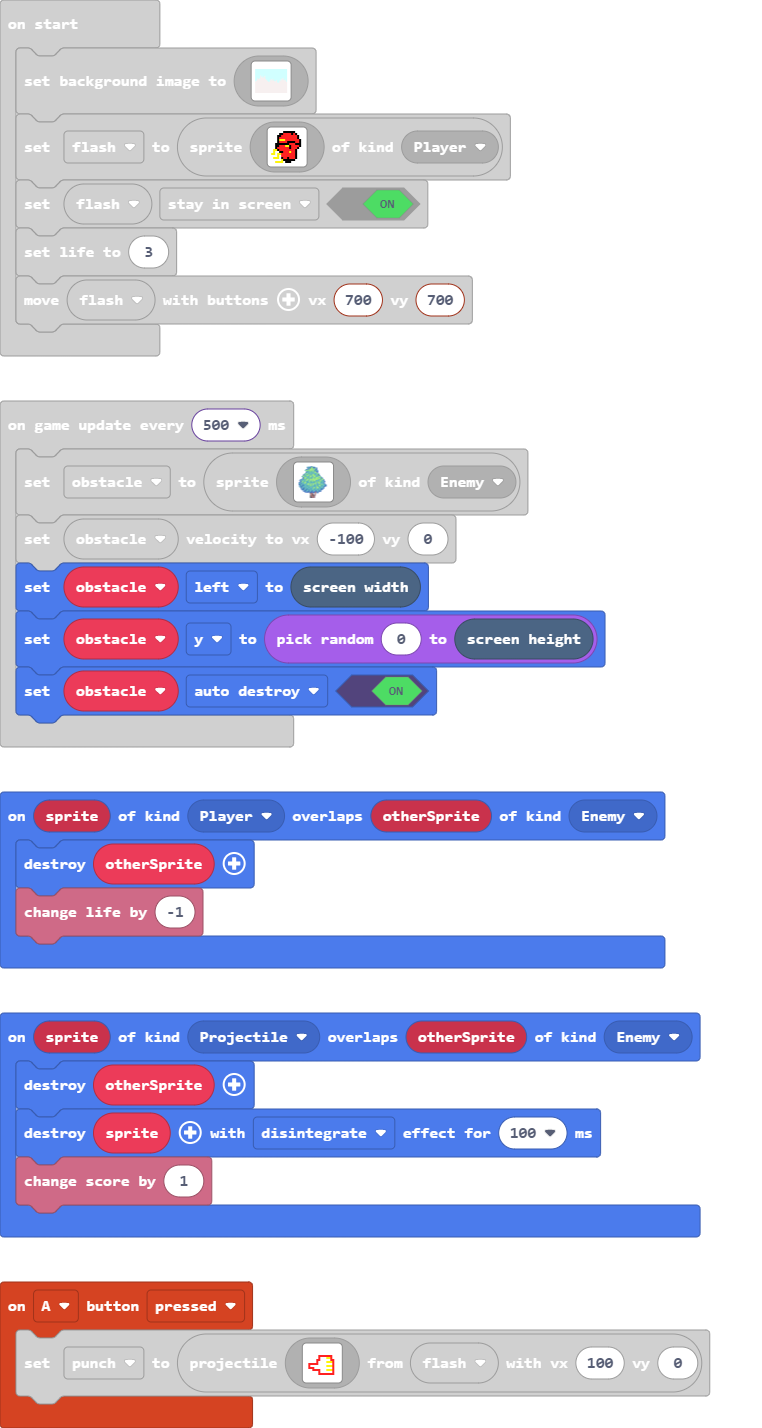
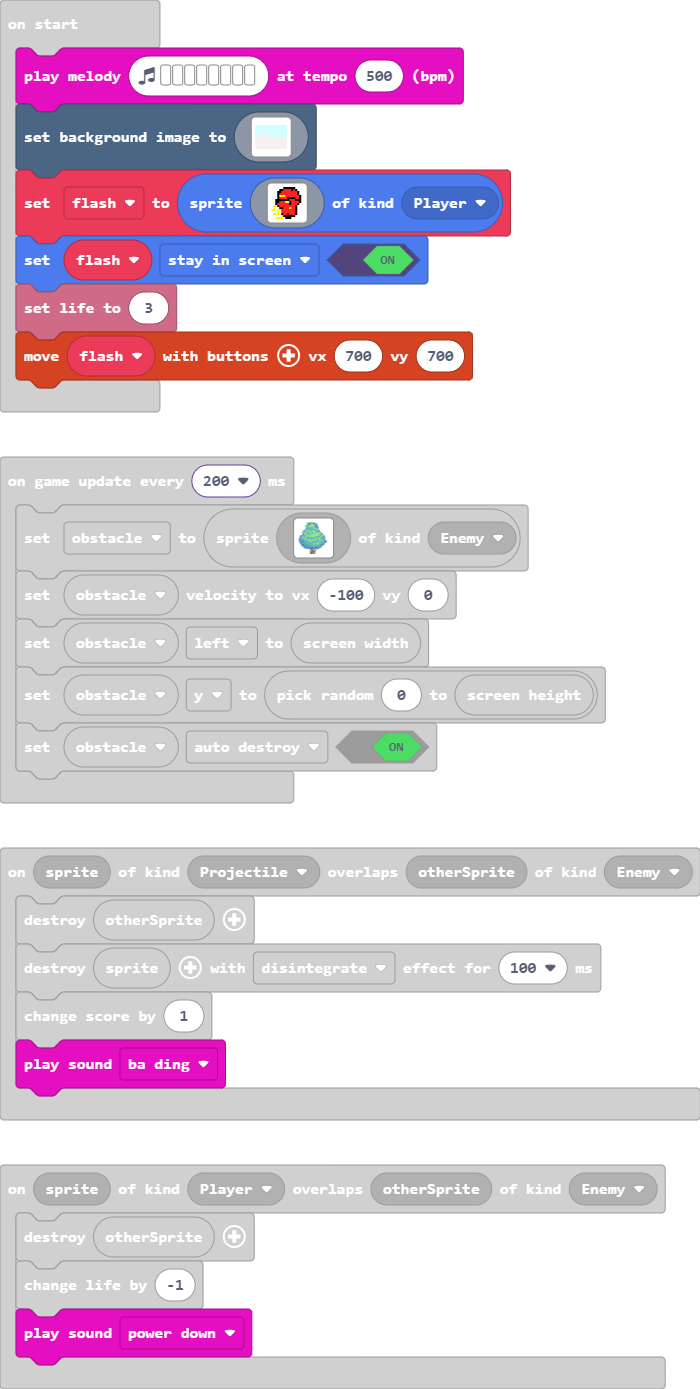
sounds and intro

diff --git a/main.ts b/main.ts
@@ -22,14 +22,17 @@ sprites.onOverlap(SpriteKind.Projectile, SpriteKind.Enemy, function (sprite, oth
     otherSprite.destroy()
     sprite.destroy(effects.disintegrate, 100)
     info.changeScoreBy(1)
+    music.baDing.play()
 })
 sprites.onOverlap(SpriteKind.Player, SpriteKind.Enemy, function (sprite, otherSprite) {
     otherSprite.destroy()
     info.changeLifeBy(-1)
+    music.powerDown.play()
 })
 let obstacle: Sprite = null
 let punch: Sprite = null
 let flash: Sprite = null
+music.playMelody("G A B C5 - - - - ", 500)
 scene.setBackgroundImage(img`
     9999999999999999999999999999999999999999999999999999999999999999999999999999999999999999999999999999999999999999999999999999999999999999999999999999999999999999
     9999999999999999999999999999999999999999999999999999999999999999999999999999999999999999999999999999999999999999999999999999999999999999999999999999999999999999
@@ -173,7 +176,7 @@ flash = sprites.create(img`
 flash.setFlag(SpriteFlag.StayInScreen, true)
 info.setLife(3)
 controller.moveSprite(flash, 700, 700)
-game.onUpdateInterval(500, function () {
+game.onUpdateInterval(200, function () {
     obstacle = sprites.create(img`
         ................86..................
         ...........6688867886...............
